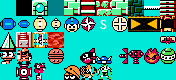
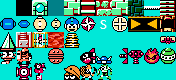
(#194) Added Spring Tile

Changed region(s): [[0.3693, 0.4, 0.4545, 0.6]]

diff --git a/megaman/vglc_to_mmlv.py b/megaman/vglc_to_mmlv.py
@@ -156,6 +156,16 @@ def fan(x: int, y: int) -> List[str]:
         f'a{x},{y}="1.000000"',
     ]
 
+def spring(x: int, y: int) -> List[str]:
+    # Spring, gimmick id 13: bounces Mega Man upward when touched. Verified d6/e13 against a
+    # labelled test level.
+    return [
+        f'o{x},{y}="9999.000000"',
+        f'e{x},{y}="13.000000"',
+        f'd{x},{y}="6.000000"',
+        f'a{x},{y}="1.000000"',
+    ]
+
 def teleporter(x: int, y: int) -> List[str]:
     # Teleporter, gimmick id 266. Verified d6/e266 against a labelled test level. Every
     # teleporter style maps to this one tile. NOTE: real teleporters come in linked pairs
@@ -386,6 +396,7 @@ CHAR_MAP = {
     'E': conveyor_left,
     'F': falling_platform,
     'x': fan,
+    's': spring,
     'T': teleporter,
     '~': water_tile,
     '!': lava_tile,

diff --git a/megaman/mmlv_to_vglc.py b/megaman/mmlv_to_vglc.py
@@ -149,6 +149,8 @@ GIMMICK_E_TO_CHAR = {
     124:"I",   # Changkey fire spawner (reuses the tackle-fire sprite; the 'I' fire tile)
     11: "F",   # falling platform: a solid block that drops when stood on. Verified d6/e11
     43: "x",   # fan: blows Mega Man upward.
+    13: "s",   # spring: bounces Mega Man upward when touched. Verified d6/e13 against a labelled
+               # test level. (Distinct from d5 e13, an unrelated unidentified enemy id.)
     266:"T",   # teleporter (paired warp gimmick).
     65: "T",   # teleporter, another variant (same m/n partner-link + f style fields as e266).
     267:"#",   # 2-wide horizontal solid block (see TWO_WIDE_E_IDS: expands one tile left)

diff --git a/util/common_settings.py b/util/common_settings.py
@@ -53,5 +53,5 @@ MM_SIMPLE_TILESET = 'datasets/MM-simple-tileset.json'
 
 # Mega Man Maker (MMLV) shares Mega Man's scene shape and pixel dim, but its tileset is the
 # full VGLC set plus the conveyor-belt tiles ('>' / 'E'), so it has 2 extra tile types.
-MMLV_TILE_COUNT = 44
+MMLV_TILE_COUNT = 45
 MMLV_TILESET = 'datasets/MMLV.json'

diff --git a/level_dataset.py b/level_dataset.py
@@ -381,6 +381,7 @@ def mm_tiles(game):
 
             (0,9),    #43 '=' = Moving-platform path/track (the rail the platform rides;
                       #        decoupled from the platform 'M', which moved to (2,10))
+            (2,4),    #44 's' = Spring (bounces Mega Man upward when touched)
     ]
 
            
